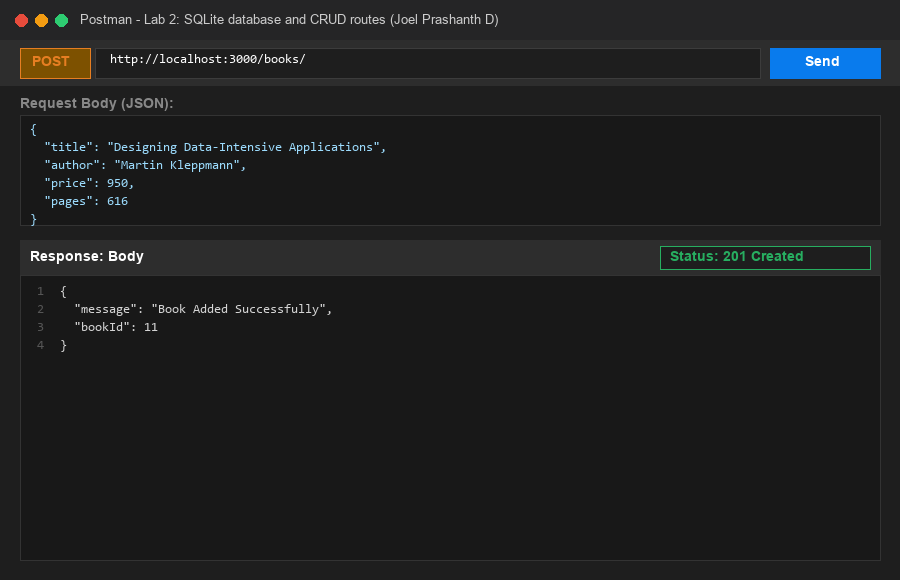
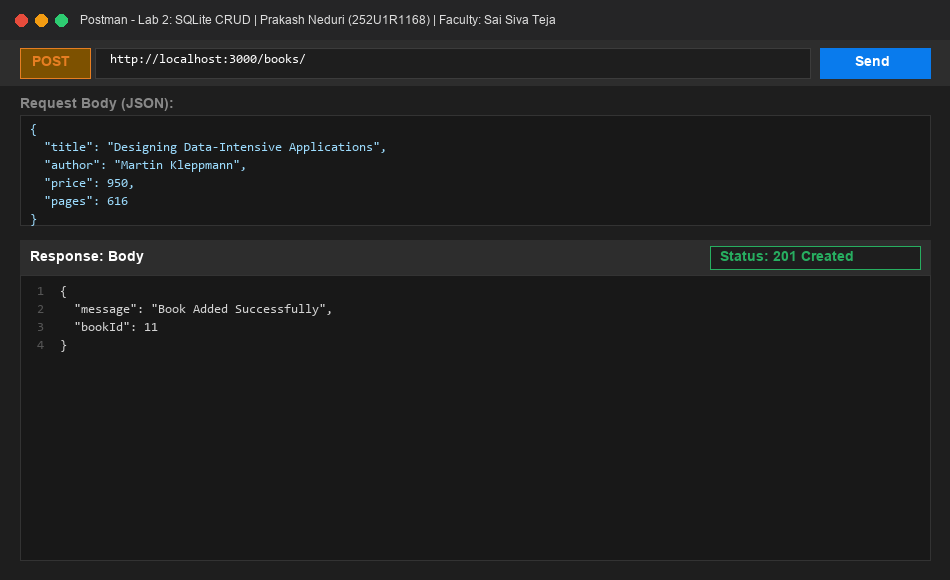
chore: update faculty to Sai Siva Teja and reg no to 252U1R1168 across docs, code, and screenshots

diff --git a/lab-02/server.js b/lab-02/server.js
@@ -34,8 +34,9 @@ app.get('/', (request, response) => {
   response.status(200).json({
     lab: 'Lab 2: SQLite database and CRUD routes',
     student: 'Prakash Neduri',
-    regNo: '22BCE10001',
-    section: 'Section A',
+    regNo: '252U1R1168',
+    section: 'SCSE-2D',
+    faculty: 'Sai Siva Teja',
     endpoints: [
       { method: 'GET', path: '/books/', description: 'Retrieve all books from the database' },
       { method: 'GET', path: '/books/:bookId/', description: 'Retrieve a specific book by ID' },

diff --git a/lab-01/README.md b/lab-01/README.md
@@ -1,9 +1,9 @@
 # Lab 1: Node.js and Express server
 
-**Prakash Neduri · 22BCE10001 · Section A**  
+**Prakash Neduri · 252U1R1168 · SCSE-2D**  
 **Course:** Backend Development Fundamentals · Year II Term II · Aurora  
-**Faculty:** Joel Prashanth D  
-**Live Link:** [[https://backend-development-lab-1-prakash-c.vercel.app/](https://backend-development-lab-1-prakash-c.vercel.app/)] 
+**Faculty:** Sai Siva Teja  
+**Live Link:** [https://backend-development-lab-1-prakash-c.vercel.app/](https://backend-development-lab-1-prakash-c.vercel.app/)
 
 ---
 

diff --git a/lab-02/README.md b/lab-02/README.md
@@ -1,8 +1,8 @@
 # Lab 2: SQLite database and CRUD routes
 
-**Prakash Neduri · 22BCE10001 · Section A**  
+**Prakash Neduri · 252U1R1168 · SCSE-2D**  
 **Course:** Backend Development Fundamentals · Year II Term II · Aurora  
-**Faculty:** Joel Prashanth D  
+**Faculty:** Sai Siva Teja  
 **Live Link:** [https://lab-02-sqlite-crud.onrender.com](https://lab-02-sqlite-crud.onrender.com) *(Replace with your deployed Render/Railway/Cloud IDE public URL or refer to [Deployment Instructions](#deployment-instructions))*
 
 ---

diff --git a/README.md b/README.md
@@ -1,10 +1,10 @@
 # Backend Development Fundamentals — Course Labs
 
 **Student Name:** Prakash Neduri  
-**Registration Number:** 252U1R1168 
-**Section:** SCSE-2D 
+**Registration Number:** 252U1R1168  
+**Section:** SCSE-2D  
 **Course:** Backend Development Fundamentals · Year II Term II · Aurora  
-**Faculty:** SAI SIVA TEJA 
+**Faculty:** SAI SIVA TEJA  
 **GitHub Repository:** [`backend_development_lab_1_prakash`](https://github.com/prakashneduri22-prog/backend_development_lab_1_prakash)
 
 ---
